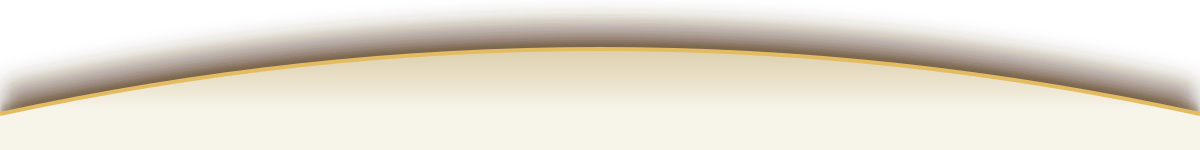
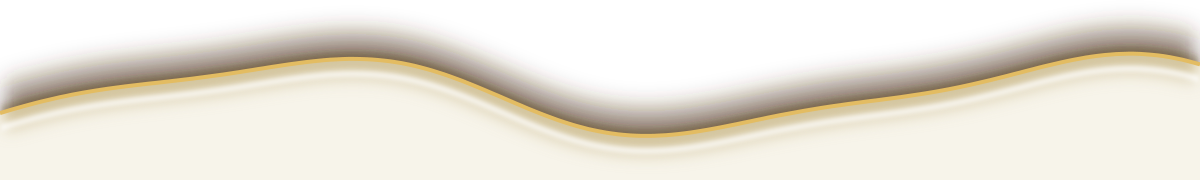
Subscribers E3: wavy 3D edges in and out of the plans section
Claude-Session: https://claude.ai/code/session_01NhEtXPnfeCJfN73SqBkUZ5

diff --git a/email-ds/exports/klaviyo/sub1-e3-15/sub1-e3-15.html b/email-ds/exports/klaviyo/sub1-e3-15/sub1-e3-15.html
@@ -85,7 +85,7 @@
      the pouch and the latte close the section ── -->
 <tr><td class="plans" align="center" valign="top" background="https://cdn.klaviyomail.com/company/TwvSnK/images/4df20a78-291a-4b9a-aed0-3d3a7300a639.jpeg" bgcolor="#C99253" style="background-color:#C99253;background-image:url('https://cdn.klaviyomail.com/company/TwvSnK/images/4df20a78-291a-4b9a-aed0-3d3a7300a639.jpeg');background-size:cover;background-position:center bottom;background-repeat:no-repeat;padding:0;font-family:'Montserrat','Helvetica Neue',Helvetica,Arial,sans-serif;">
 <!--[if gte mso 9]><v:rect xmlns:v="urn:schemas-microsoft-com:vml" fill="true" stroke="false" style="width:600px;height:780px;"><v:fill type="frame" src="https://cdn.klaviyomail.com/company/TwvSnK/images/4df20a78-291a-4b9a-aed0-3d3a7300a639.jpeg" color="#C99253" /><v:textbox inset="0,0,0,0"><![endif]-->
-<img class="edge" src="https://cdn.klaviyomail.com/company/TwvSnK/images/454df36d-e11c-4fca-acd0-2e7b34fe1c11.png" width="600" height="75" alt="" role="presentation" style="display:block;width:100%;max-width:600px;height:auto;border:0;">
+<img class="edge" src="https://cdn.klaviyomail.com/company/TwvSnK/images/454df36d-e11c-4fca-acd0-2e7b34fe1c11.png" width="600" height="90" alt="" role="presentation" style="display:block;width:100%;max-width:600px;height:auto;border:0;">
 <div class="plans-in" style="padding:6px 28px 70px;">
 <div style="font-size:12px;line-height:16px;font-weight:700;letter-spacing:3px;text-transform:uppercase;color:#FFFFFF;text-shadow:0 1px 6px rgba(90,50,10,.45);">Your plan, upgraded</div>
 <div style="padding-top:26px;"><div style="font-size:0;line-height:0;text-align:center;">
@@ -124,7 +124,7 @@
 <!--[if mso]></td></tr></table><![endif]-->
 </div></div>
 </div>
-<img class="edge" src="https://cdn.klaviyomail.com/company/TwvSnK/images/6a77a029-ff2a-4a0e-a319-ef2715c90d37.png" width="600" height="75" alt="" role="presentation" style="display:block;width:100%;max-width:600px;height:auto;border:0;">
+<img class="edge" src="https://cdn.klaviyomail.com/company/TwvSnK/images/6a77a029-ff2a-4a0e-a319-ef2715c90d37.png" width="600" height="90" alt="" role="presentation" style="display:block;width:100%;max-width:600px;height:auto;border:0;">
 <!--[if gte mso 9]></v:textbox></v:rect><![endif]-->
 </td></tr>
 

diff --git a/email-ds/exports/klaviyo/sub1-e3-30/sub1-e3-30.html b/email-ds/exports/klaviyo/sub1-e3-30/sub1-e3-30.html
@@ -85,7 +85,7 @@
      the pouch and the latte close the section ── -->
 <tr><td class="plans" align="center" valign="top" background="https://cdn.klaviyomail.com/company/TwvSnK/images/4df20a78-291a-4b9a-aed0-3d3a7300a639.jpeg" bgcolor="#C99253" style="background-color:#C99253;background-image:url('https://cdn.klaviyomail.com/company/TwvSnK/images/4df20a78-291a-4b9a-aed0-3d3a7300a639.jpeg');background-size:cover;background-position:center bottom;background-repeat:no-repeat;padding:0;font-family:'Montserrat','Helvetica Neue',Helvetica,Arial,sans-serif;">
 <!--[if gte mso 9]><v:rect xmlns:v="urn:schemas-microsoft-com:vml" fill="true" stroke="false" style="width:600px;height:780px;"><v:fill type="frame" src="https://cdn.klaviyomail.com/company/TwvSnK/images/4df20a78-291a-4b9a-aed0-3d3a7300a639.jpeg" color="#C99253" /><v:textbox inset="0,0,0,0"><![endif]-->
-<img class="edge" src="https://cdn.klaviyomail.com/company/TwvSnK/images/454df36d-e11c-4fca-acd0-2e7b34fe1c11.png" width="600" height="75" alt="" role="presentation" style="display:block;width:100%;max-width:600px;height:auto;border:0;">
+<img class="edge" src="https://cdn.klaviyomail.com/company/TwvSnK/images/454df36d-e11c-4fca-acd0-2e7b34fe1c11.png" width="600" height="90" alt="" role="presentation" style="display:block;width:100%;max-width:600px;height:auto;border:0;">
 <div class="plans-in" style="padding:6px 28px 70px;">
 <div style="font-size:12px;line-height:16px;font-weight:700;letter-spacing:3px;text-transform:uppercase;color:#FFFFFF;text-shadow:0 1px 6px rgba(90,50,10,.45);">Your plan, upgraded</div>
 <div style="padding-top:26px;"><div style="font-size:0;line-height:0;text-align:center;">
@@ -124,7 +124,7 @@
 <!--[if mso]></td></tr></table><![endif]-->
 </div></div>
 </div>
-<img class="edge" src="https://cdn.klaviyomail.com/company/TwvSnK/images/6a77a029-ff2a-4a0e-a319-ef2715c90d37.png" width="600" height="75" alt="" role="presentation" style="display:block;width:100%;max-width:600px;height:auto;border:0;">
+<img class="edge" src="https://cdn.klaviyomail.com/company/TwvSnK/images/6a77a029-ff2a-4a0e-a319-ef2715c90d37.png" width="600" height="90" alt="" role="presentation" style="display:block;width:100%;max-width:600px;height:auto;border:0;">
 <!--[if gte mso 9]></v:textbox></v:rect><![endif]-->
 </td></tr>
 

diff --git a/email-ds/refine/sub1-e3-15.html b/email-ds/refine/sub1-e3-15.html
@@ -83,7 +83,7 @@ body{margin:0;background:#FFFFFF;padding:28px 0 60px}
      the pouch and the latte close the section ── -->
 <tr><td class="plans" align="center" valign="top" background="../exports/klaviyo/sub1-e3/img/plans-bg.jpg" bgcolor="#C99253" style="background-color:#C99253;background-image:url('../exports/klaviyo/sub1-e3/img/plans-bg.jpg');background-size:cover;background-position:center bottom;background-repeat:no-repeat;padding:0;font-family:'Montserrat','Helvetica Neue',Helvetica,Arial,sans-serif;">
 <!--[if gte mso 9]><v:rect xmlns:v="urn:schemas-microsoft-com:vml" fill="true" stroke="false" style="width:600px;height:780px;"><v:fill type="frame" src="../exports/klaviyo/sub1-e3/img/plans-bg.jpg" color="#C99253" /><v:textbox inset="0,0,0,0"><![endif]-->
-<img class="edge" src="../exports/klaviyo/sub1-e3/img/edge-top.png" width="600" height="75" alt="" role="presentation" style="display:block;width:100%;max-width:600px;height:auto;border:0;">
+<img class="edge" src="../exports/klaviyo/sub1-e3/img/edge-top.png" width="600" height="90" alt="" role="presentation" style="display:block;width:100%;max-width:600px;height:auto;border:0;">
 <div class="plans-in" style="padding:6px 28px 70px;">
 <div style="font-size:12px;line-height:16px;font-weight:700;letter-spacing:3px;text-transform:uppercase;color:#FFFFFF;text-shadow:0 1px 6px rgba(90,50,10,.45);">Your plan, upgraded</div>
 <div style="padding-top:26px;"><div style="font-size:0;line-height:0;text-align:center;">
@@ -122,7 +122,7 @@ body{margin:0;background:#FFFFFF;padding:28px 0 60px}
 <!--[if mso]></td></tr></table><![endif]-->
 </div></div>
 </div>
-<img class="edge" src="../exports/klaviyo/sub1-e3/img/edge-bottom.png" width="600" height="75" alt="" role="presentation" style="display:block;width:100%;max-width:600px;height:auto;border:0;">
+<img class="edge" src="../exports/klaviyo/sub1-e3/img/edge-bottom.png" width="600" height="90" alt="" role="presentation" style="display:block;width:100%;max-width:600px;height:auto;border:0;">
 <!--[if gte mso 9]></v:textbox></v:rect><![endif]-->
 </td></tr>
 

diff --git a/email-ds/refine/sub1-e3-30.html b/email-ds/refine/sub1-e3-30.html
@@ -83,7 +83,7 @@ body{margin:0;background:#FFFFFF;padding:28px 0 60px}
      the pouch and the latte close the section ── -->
 <tr><td class="plans" align="center" valign="top" background="../exports/klaviyo/sub1-e3/img/plans-bg.jpg" bgcolor="#C99253" style="background-color:#C99253;background-image:url('../exports/klaviyo/sub1-e3/img/plans-bg.jpg');background-size:cover;background-position:center bottom;background-repeat:no-repeat;padding:0;font-family:'Montserrat','Helvetica Neue',Helvetica,Arial,sans-serif;">
 <!--[if gte mso 9]><v:rect xmlns:v="urn:schemas-microsoft-com:vml" fill="true" stroke="false" style="width:600px;height:780px;"><v:fill type="frame" src="../exports/klaviyo/sub1-e3/img/plans-bg.jpg" color="#C99253" /><v:textbox inset="0,0,0,0"><![endif]-->
-<img class="edge" src="../exports/klaviyo/sub1-e3/img/edge-top.png" width="600" height="75" alt="" role="presentation" style="display:block;width:100%;max-width:600px;height:auto;border:0;">
+<img class="edge" src="../exports/klaviyo/sub1-e3/img/edge-top.png" width="600" height="90" alt="" role="presentation" style="display:block;width:100%;max-width:600px;height:auto;border:0;">
 <div class="plans-in" style="padding:6px 28px 70px;">
 <div style="font-size:12px;line-height:16px;font-weight:700;letter-spacing:3px;text-transform:uppercase;color:#FFFFFF;text-shadow:0 1px 6px rgba(90,50,10,.45);">Your plan, upgraded</div>
 <div style="padding-top:26px;"><div style="font-size:0;line-height:0;text-align:center;">
@@ -122,7 +122,7 @@ body{margin:0;background:#FFFFFF;padding:28px 0 60px}
 <!--[if mso]></td></tr></table><![endif]-->
 </div></div>
 </div>
-<img class="edge" src="../exports/klaviyo/sub1-e3/img/edge-bottom.png" width="600" height="75" alt="" role="presentation" style="display:block;width:100%;max-width:600px;height:auto;border:0;">
+<img class="edge" src="../exports/klaviyo/sub1-e3/img/edge-bottom.png" width="600" height="90" alt="" role="presentation" style="display:block;width:100%;max-width:600px;height:auto;border:0;">
 <!--[if gte mso 9]></v:textbox></v:rect><![endif]-->
 </td></tr>
 
